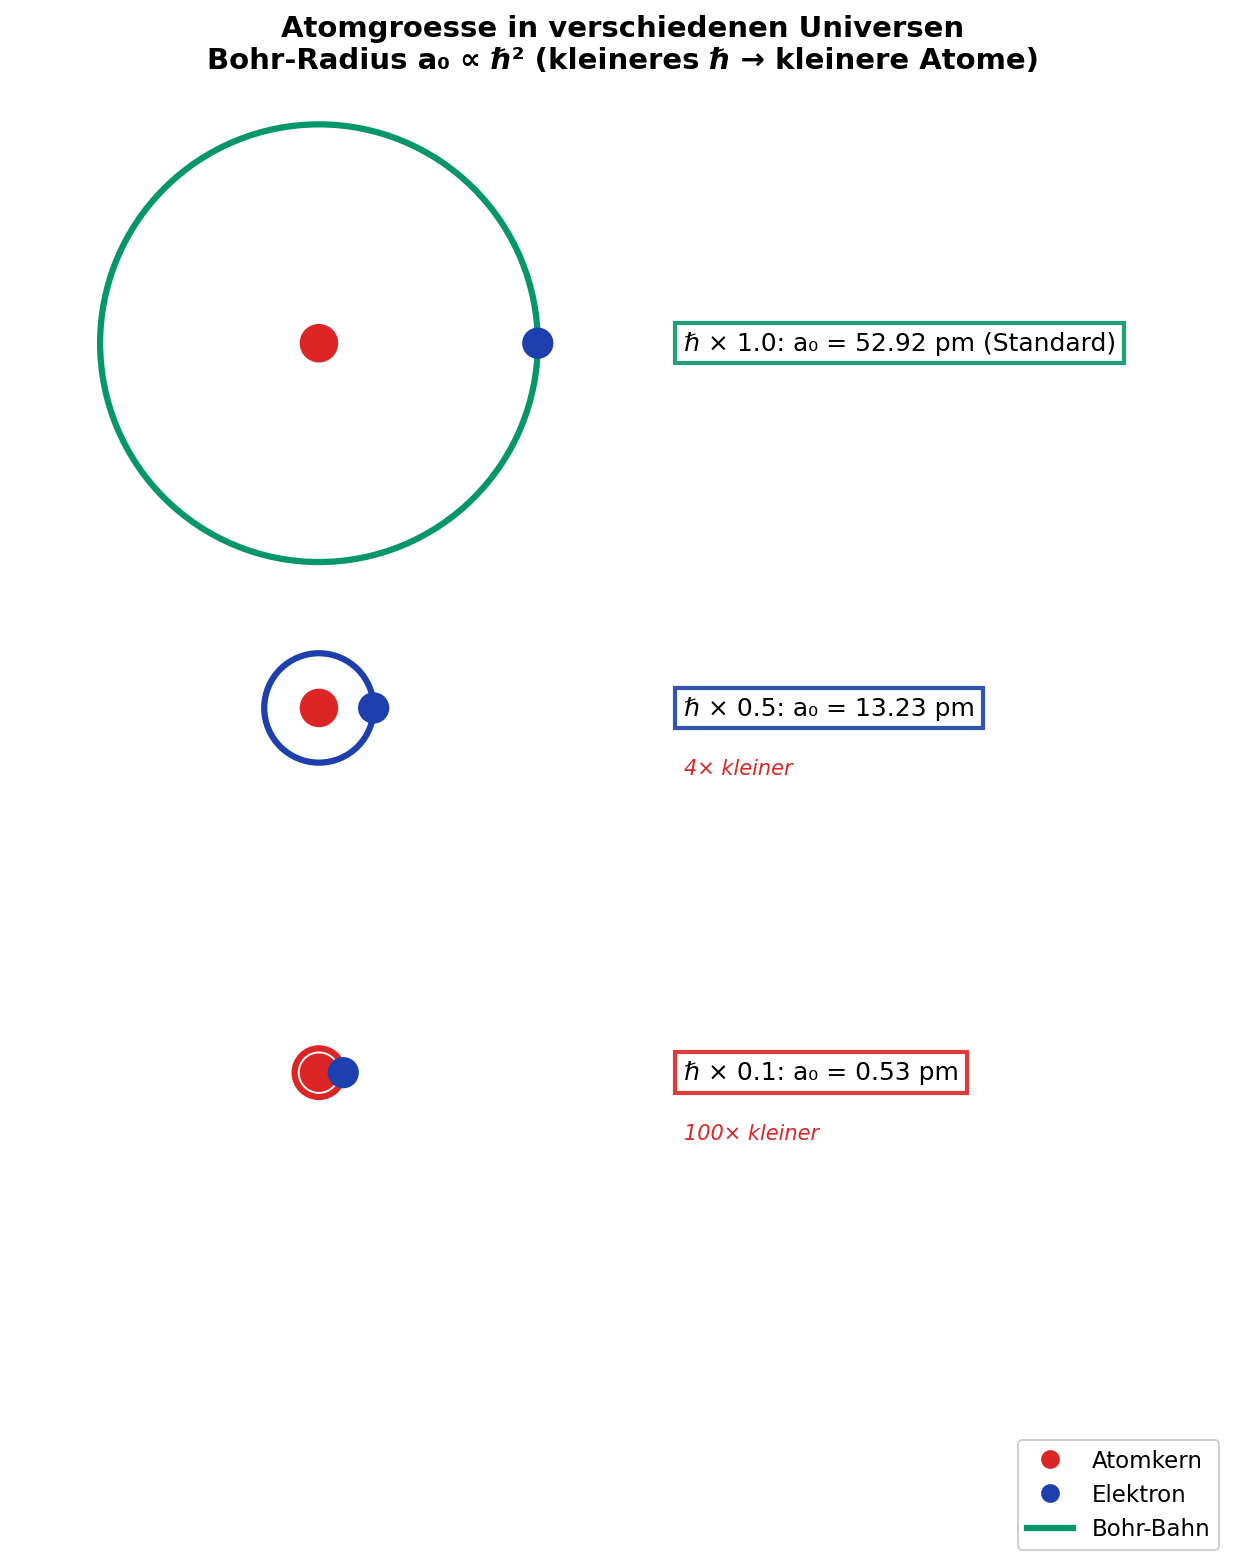
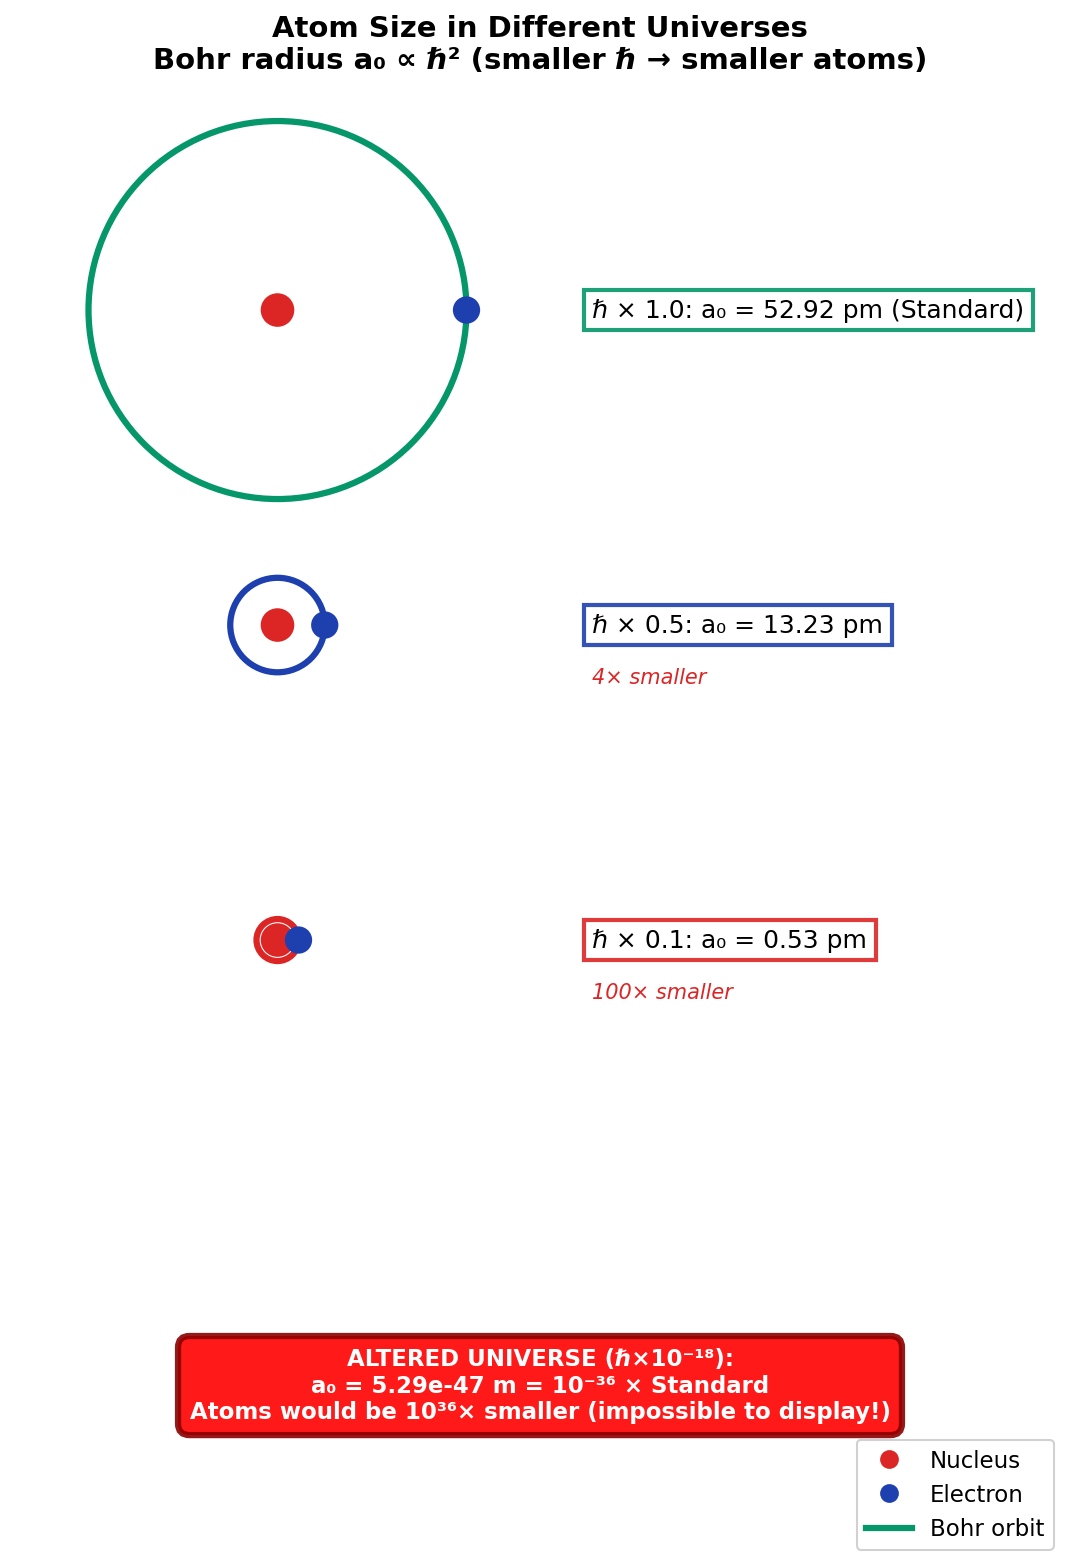
Add Altered Universe (ℏ×10⁻¹⁸) annotation to atom size comparison
Shows that at ℏ×10⁻¹⁸, atoms would be 10³⁶× smaller (a₀ = 10⁻³⁶ × standard)
Red box annotation explains this is impossible to visualize directly

diff --git a/modules/atomic_scale.py b/modules/atomic_scale.py
@@ -332,10 +332,28 @@ def plot_atom_size_comparison(
 
     # Set axis limits
     ax.set_xlim(0, 1)
-    ax.set_ylim(0, 0.95)
+    ax.set_ylim(-0.15, 0.95)
     ax.set_aspect('equal')
     ax.axis('off')
 
+    # Add ESSAY SCENARIO annotation (G×10³⁶, ℏ×10⁻¹⁸)
+    # At ℏ×10⁻¹⁸: a₀ = a₀_std × (10⁻¹⁸)² = a₀_std × 10⁻³⁶
+    # Atoms would be 10³⁶ times smaller - impossible to visualize!
+    essay_a0 = a_0_std * (1e-18)**2  # = a_0_std × 10⁻³⁶
+    if language == 'de':
+        essay_text = (f'VERÄNDERTES UNIVERSUM (ℏ×10⁻¹⁸):\n'
+                     f'a₀ = {essay_a0:.2e} m = 10⁻³⁶ × Standard\n'
+                     f'Atome wären 10³⁶× kleiner (nicht darstellbar!)')
+    else:
+        essay_text = (f'ALTERED UNIVERSE (ℏ×10⁻¹⁸):\n'
+                     f'a₀ = {essay_a0:.2e} m = 10⁻³⁶ × Standard\n'
+                     f'Atoms would be 10³⁶× smaller (impossible to display!)')
+
+    ax.text(0.5, -0.08, essay_text, fontsize=11, va='top', ha='center',
+            transform=ax.transAxes,
+            bbox=dict(boxstyle='round,pad=0.5', facecolor='#FF0000', edgecolor='darkred',
+                     linewidth=3, alpha=0.9),
+            color='white', fontweight='bold')
 
     if save:
         os.makedirs(VIS_DIR, exist_ok=True)
